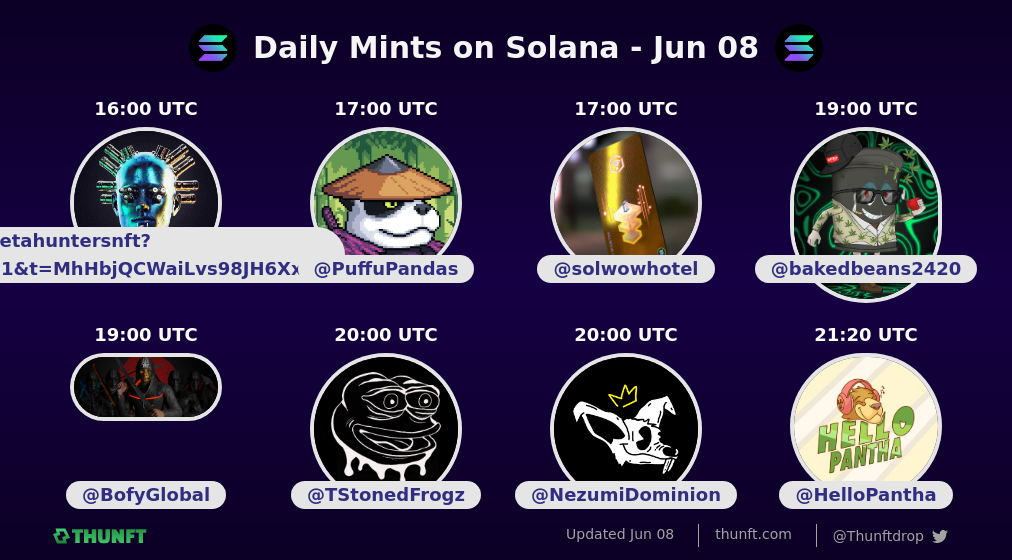
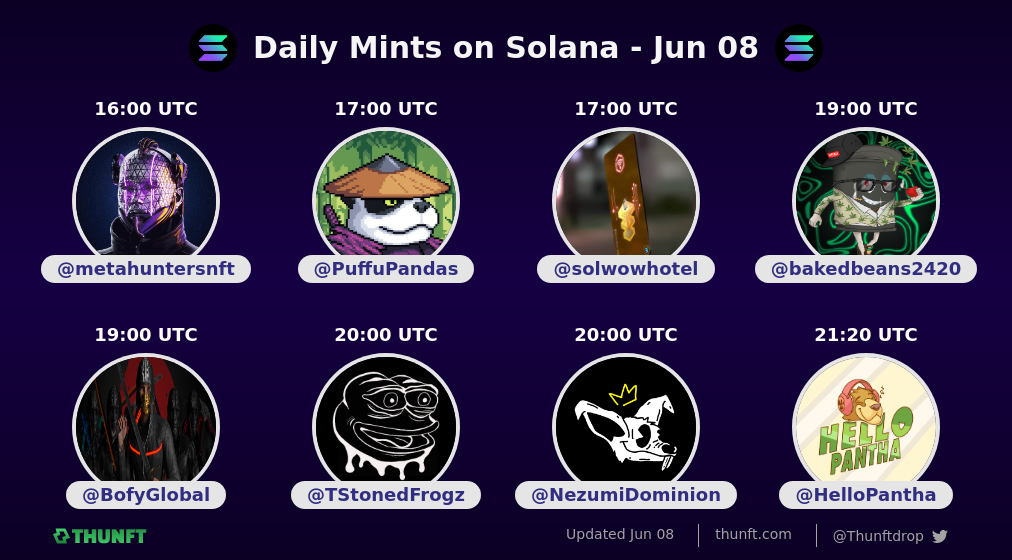
feat: improve algorithm for get images of daily mint.

diff --git a/templates/Mint/html/index.ts b/templates/Mint/html/index.ts
@@ -11,7 +11,7 @@ export const getBody = ({ name, mintDate, blockchain, imageURI, websiteURL }: ID
         </div>
         <div class="col-span-3 flex flex-col justify-center gap-8">
           <span class="text-6xl font-bold text-neutral-100">${name}</span>
-          <span class="text-8xl font-bold text-neutral-100/10">MINT</span>
+          <span class="text-8xl font-bold text-neutral-100/10">LISTED</span>
           <div class="flex max-w-max items-center justify-center rounded-xl border border-neutral-200 bg-[#292929]/50 p-2 px-8">
             <span class="font-bold text-neutral-100">${websiteURL}</span>
           </div>

diff --git a/MagicEdenAPI/getDrops.ts b/MagicEdenAPI/getDrops.ts
@@ -25,10 +25,14 @@ const formatDrops = (drops: any) => {
   return drops.map((drop: any) => {
     return {
       image: drop.assets.profileImage,
-      twitterHandle: drop.links.twitter.split("/").pop(),
+      twitterHandle: removeCharactersNotAllowedInTwitterHandle(drop.links.twitter.split("/").pop().substr(0, 15)),
       mintDate: dayjs(drop.launchDate).format("HH:mm UTC")
     }
   })
+}
+
+const removeCharactersNotAllowedInTwitterHandle = (twitterHandle: string) => {
+  return twitterHandle.replace(/[^a-zA-Z0-9_]/g, "")
 }
 
 const filterByTodayLaunch = (drops: any) => {

diff --git a/scripts/createTweetImage.ts b/scripts/createTweetImage.ts
@@ -4,7 +4,7 @@ import { generateTweetOfCollection } from "./generateTweetOfCollection"
 import fs from "fs"
 
 const main = async () => {
-  const collections = await getNFTCollections({ status: "1", paymentPlanOfPlanHistory: ["basic", "premium", "featured"] }, { collectionId: { asc: false } })
+  const collections = await getNFTCollections({ status: "1", paymentPlanOfPlanHistory: ["free", "basic", "premium", "featured"] }, { collectionId: { asc: false } })
 
   let countCollections = 0
   for (const collection of collections) {

diff --git a/templates/DailyMint/html/index.ts b/templates/DailyMint/html/index.ts
@@ -18,7 +18,7 @@ const getHtmlOfDrops = (drops: IDrop[]) => {
           <div class="absolute -bottom-2 z-10 flex justify-center rounded-full bg-neutral-200 px-4">
             <span class="text-lg font-bold text-indigo-900">@${twitterHandle}</span>
           </div>
-          <img class="absolute rounded-full ring-4 ring-neutral-200" src="${image}" />
+          <img class="absolute rounded-full ring-4 ring-neutral-200 w-[140px] h-[140px]" src="${image}" />
         </div>
       </div>
     `;

diff --git a/templates/DailyMint/css/styles.css b/templates/DailyMint/css/styles.css
@@ -483,6 +483,10 @@ Ensure the default browser behavior of the `hidden` attribute.
   height: 9rem;
 }
 
+.h-\[140px\] {
+  height: 140px;
+}
+
 .min-h-\[420px\] {
   min-height: 420px;
 }
@@ -497,6 +501,10 @@ Ensure the default browser behavior of the `hidden` attribute.
 
 .w-36 {
   width: 9rem;
+}
+
+.w-\[140px\] {
+  width: 140px;
 }
 
 .max-w-max {

diff --git a/data/DailyMint/tweets/08-06-2022.md b/data/DailyMint/tweets/08-06-2022.md
@@ -2,7 +2,7 @@ Daily Mints in #SolanaNFT 🚀
 
 ⏰ Mint Jun 08
 
-16UTC @metahuntersnft?s=21&t=MhHbjQCWaiLvs98JH6XxdA
+16UTC @metahuntersnft
 17UTC @PuffuPandas
 17UTC @solwowhotel
 19UTC @bakedbeans2420
